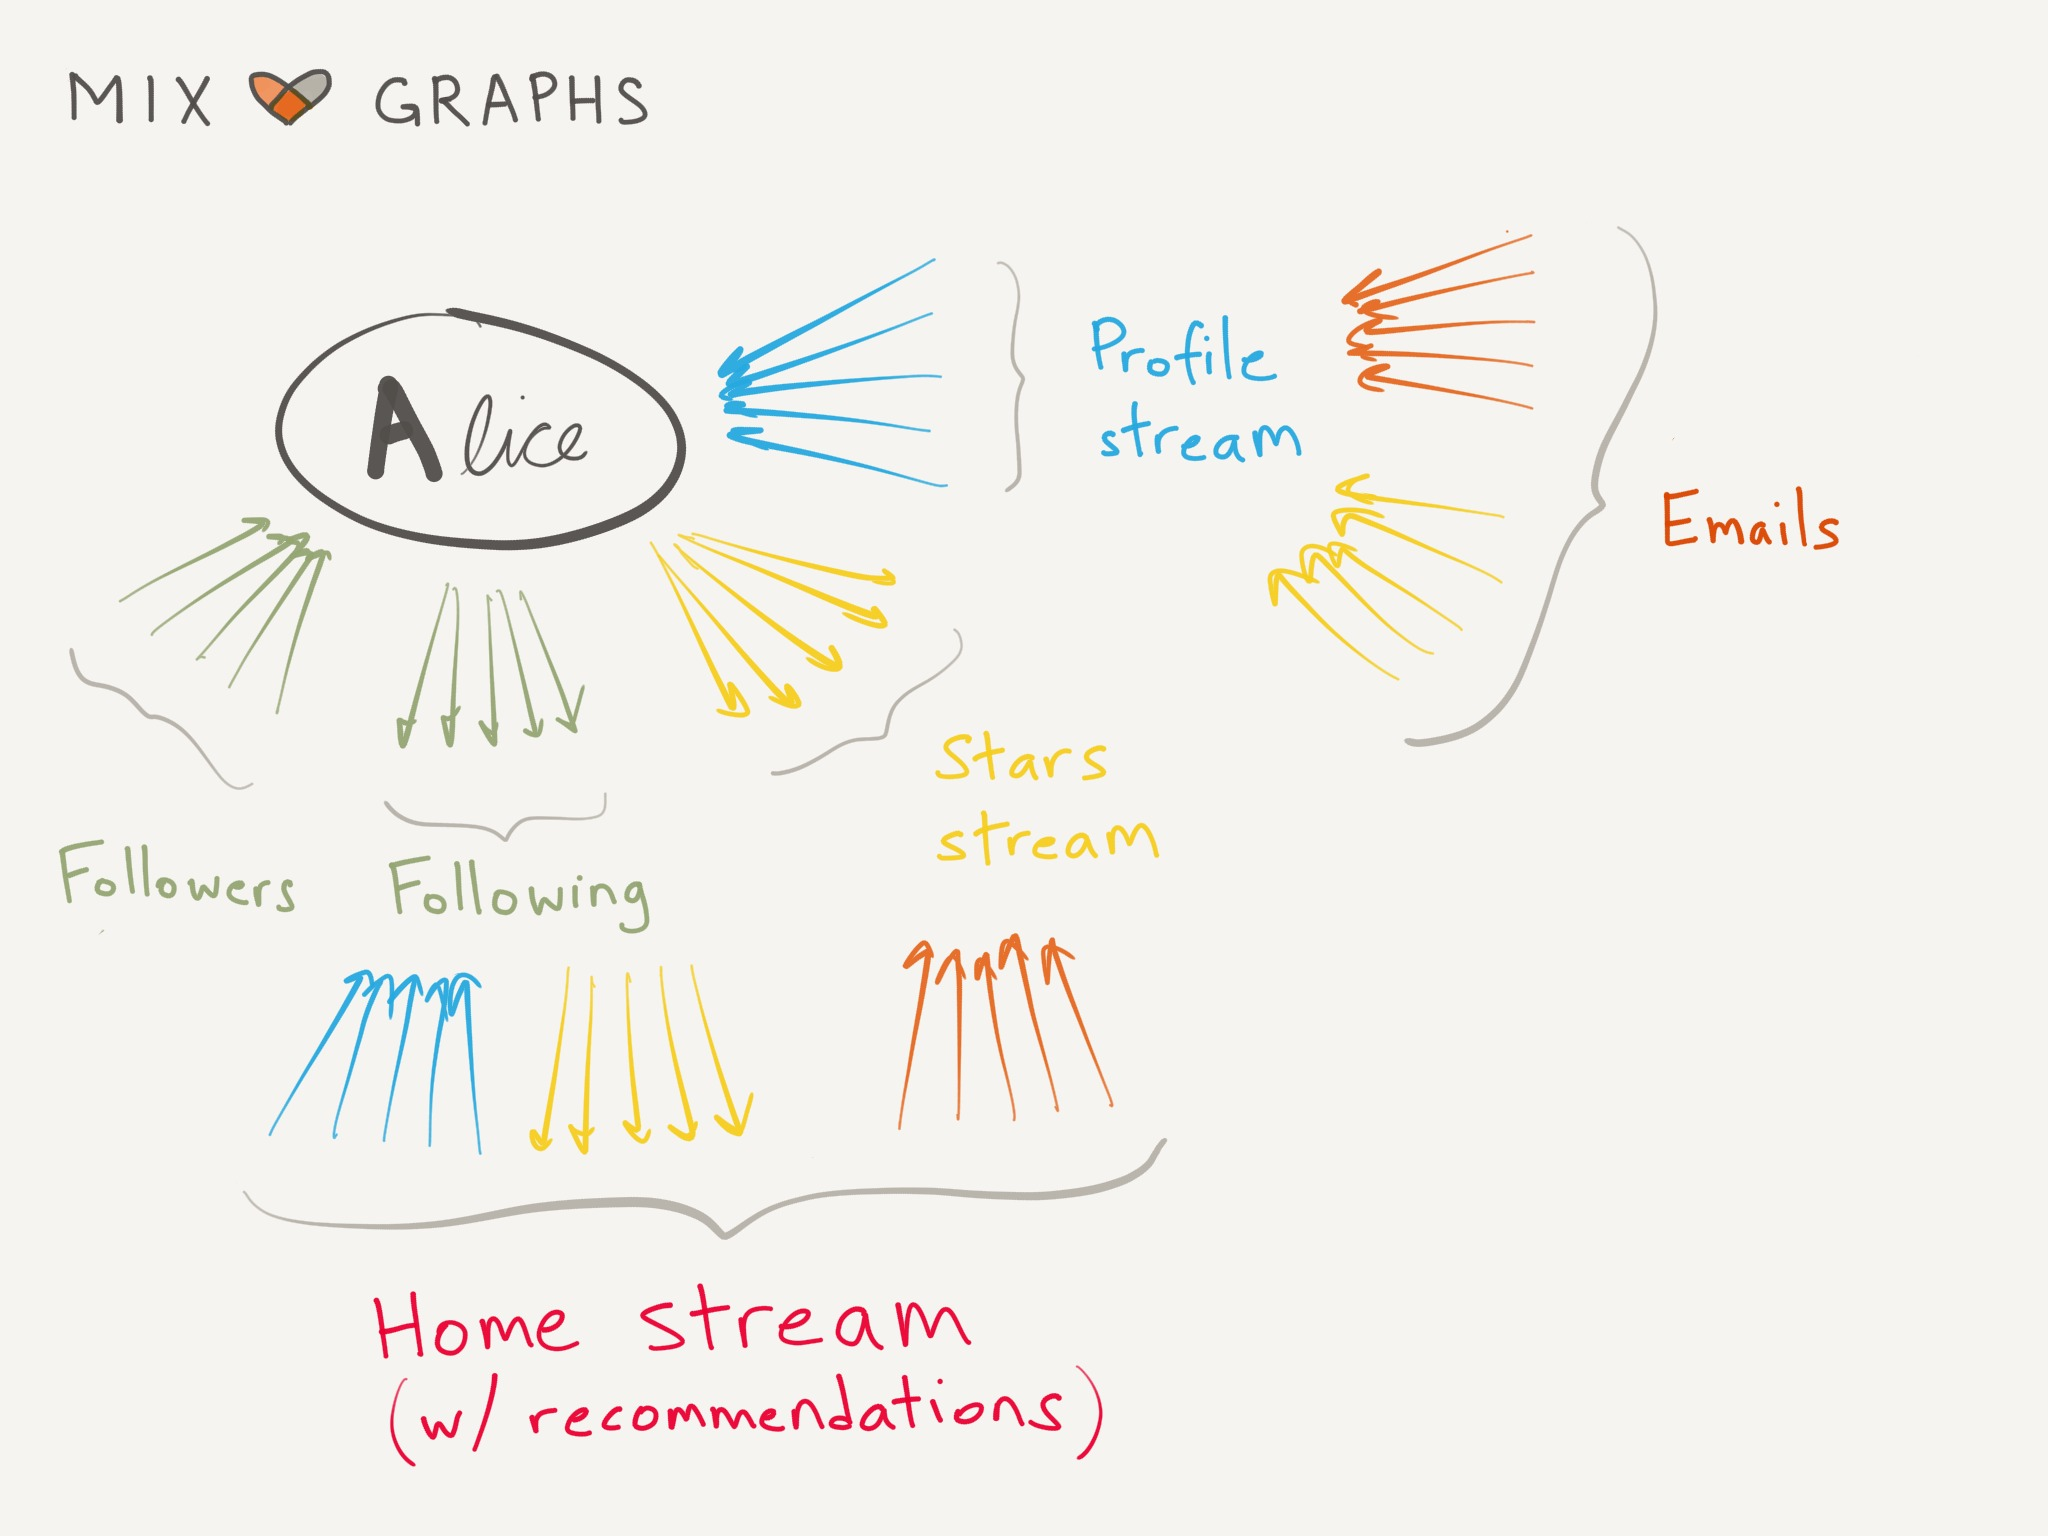
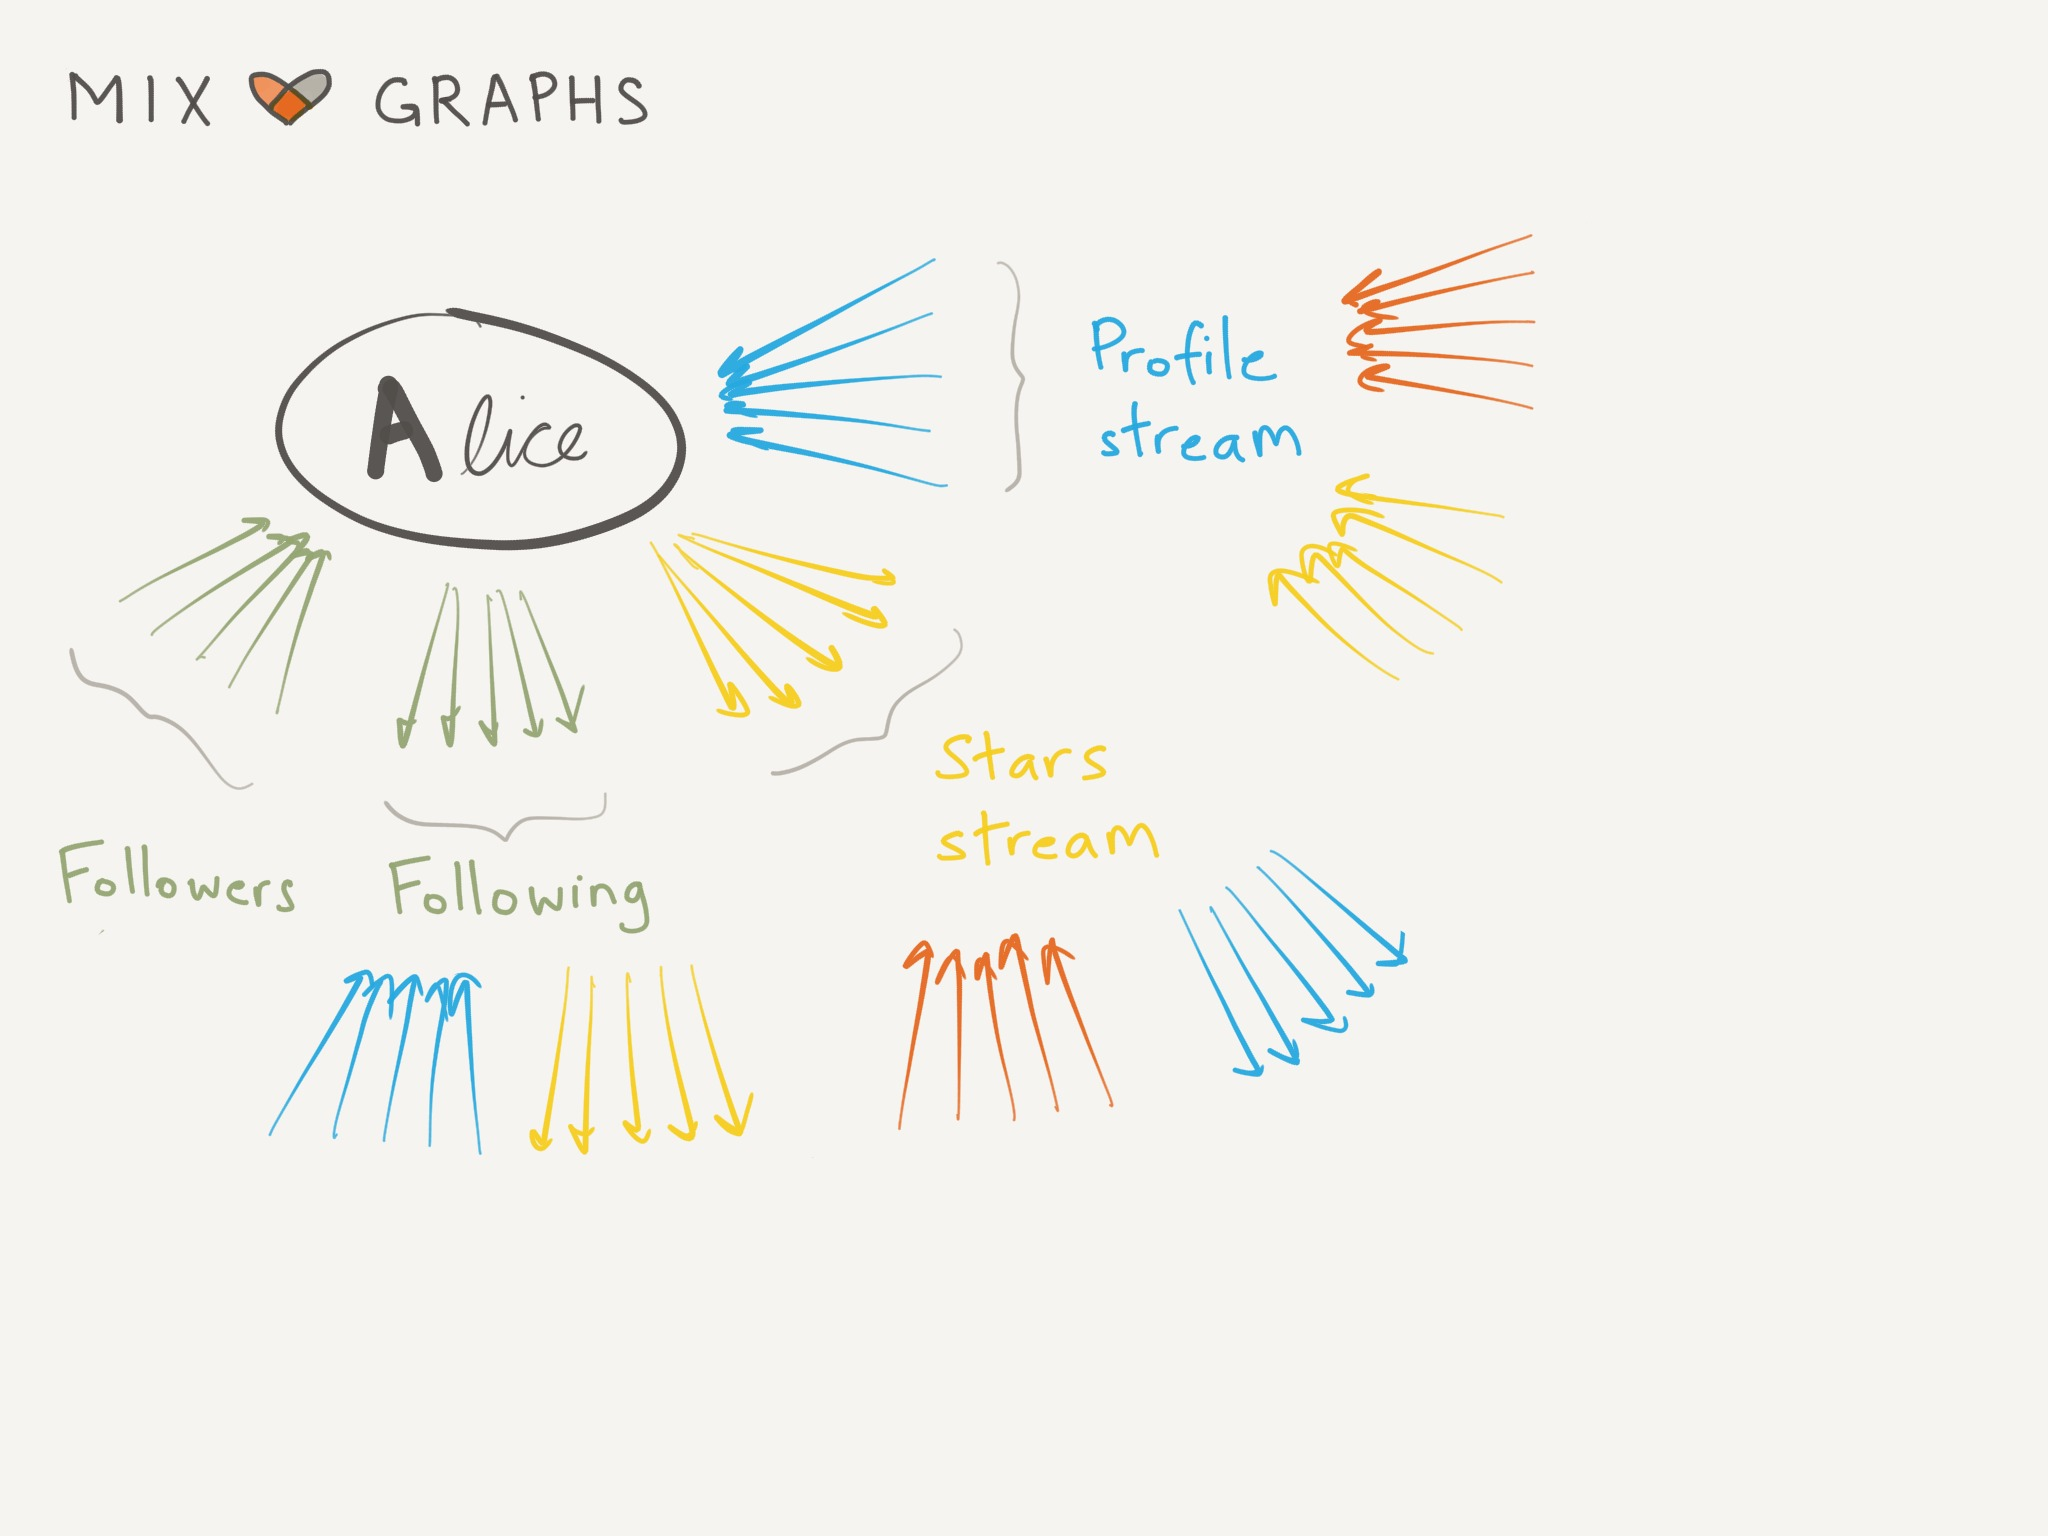
Mix Neo4j talk: some initial images.

diff --git a/talks/mix-neo4j-text.md b/talks/mix-neo4j-text.md
@@ -1,19 +1,95 @@
-# Markdown Demo
-
-
-## Slide 1
-
-Content 1
+## Building
+# Mix by FiftyThree
+## with
+# Neo4j
 
 Notes:
-This will only appear in the speaker notes window.
+https://mix.fiftythree.com/
 
 
-## Slide 2
+<!-- .slide: data-background="/images/mix-neo4j/graphconnect-2014.jpg" data-background-transition="slide" -->
 
-Content 2
+Notes:
+https://mix.fiftythree.com/GraphConnect/464175
 
 
-## Slide 3
+<!-- .slide: data-background="/images/mix-neo4j/gc-monster1.jpg" data-background-transition="none" -->
 
-Content 3
+Notes:
+https://mix.fiftythree.com/391241-Natalia-La-Fey/471737
+
+
+<!-- .slide: data-background="/images/mix-neo4j/gc-monster2.jpg" data-background-transition="none" -->
+
+Notes:
+https://mix.fiftythree.com/391241-Natalia-La-Fey/474539
+
+
+<!-- .slide: data-background="/images/mix-neo4j/gc-monster3.jpg" data-background-transition="none" -->
+
+Notes:
+https://mix.fiftythree.com/391241-Natalia-La-Fey/482993
+
+
+<!-- .slide: data-background="/images/mix-neo4j/mix-background-1024x768.png" data-background-transition="slide" -->
+
+Notes:
+https://vimeo.com/105656434
+
+
+<!-- .slide: data-background="/images/mix-neo4j/mix-graph0-template.jpg" data-background-transition="slide" -->
+
+
+<!-- .slide: data-background="/images/mix-neo4j/mix-graph1-users.jpg" data-background-transition="none" -->
+
+
+<!-- .slide: data-background="/images/mix-neo4j/mix-graph2-follows.jpg" data-background-transition="none" -->
+
+
+<!-- .slide: data-background="/images/mix-neo4j/mix-graph3-creation.jpg" data-background-transition="none" -->
+
+
+<!-- .slide: data-background="/images/mix-neo4j/mix-graph4-remix.jpg" data-background-transition="none" -->
+
+
+<!-- .slide: data-background="/images/mix-neo4j/mix-graph5-remixes.jpg" data-background-transition="none" -->
+
+
+<!-- .slide: data-background="/images/mix-neo4j/mix-graph6-stars.jpg" data-background-transition="none" -->
+
+
+<!-- .slide: data-background="/images/mix-neo4j/mix-graph7-user1.jpg" data-background-transition="none" -->
+
+
+<!-- .slide: data-background="/images/mix-neo4j/mix-graph8-user2.jpg" data-background-transition="none" -->
+
+
+<!-- .slide: data-background="/images/mix-neo4j/mix-graph9-user3.jpg" data-background-transition="none" -->
+
+
+<!-- .slide: data-background="/images/mix-neo4j/mix-graph10-creation1.jpg" data-background-transition="none" -->
+
+
+<!-- .slide: data-background="/images/mix-neo4j/mix-graph11-creation2.jpg" data-background-transition="none" -->
+
+
+<!-- .slide: data-background="/images/mix-neo4j/mix-graph12-creation3.jpg" data-background-transition="none" -->
+
+
+<!-- .slide: data-background="/images/mix-neo4j/mix-graph13-creation4.jpg" data-background-transition="none" -->
+
+
+<!-- .slide: data-background="/images/mix-neo4j/mix-graph9-user3.jpg" data-background-transition="none" -->
+
+
+<!-- .slide: data-background="/images/mix-neo4j/mix-graph14-user4.jpg" data-background-transition="none" -->
+
+
+<!-- .slide: data-background="/images/mix-neo4j/mix-graph15-user5.jpg" data-background-transition="none" -->
+
+
+<!-- .slide: data-background="/images/mix-neo4j/mix-graph6-stars.jpg" data-background-transition="none" -->
+
+Notes:
+All of this richness from this simple graph.
+Just two nodes and four relationships.
